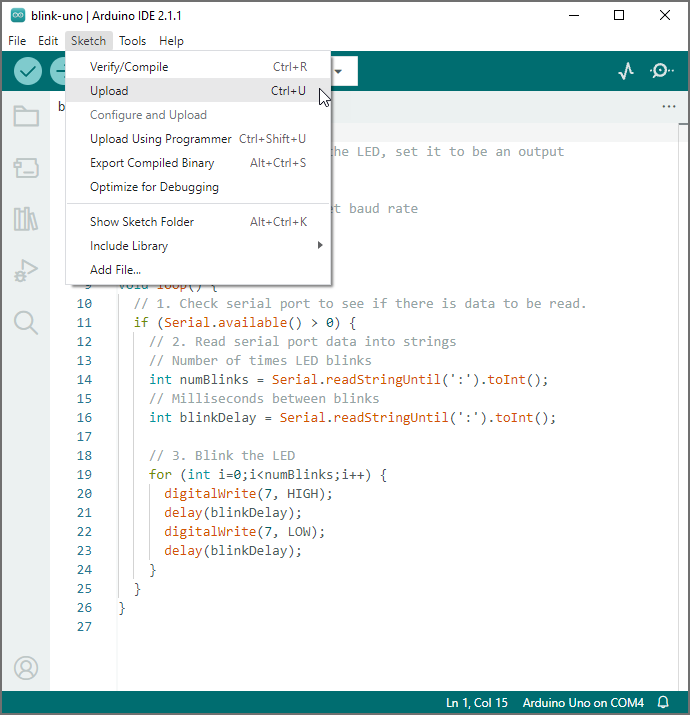
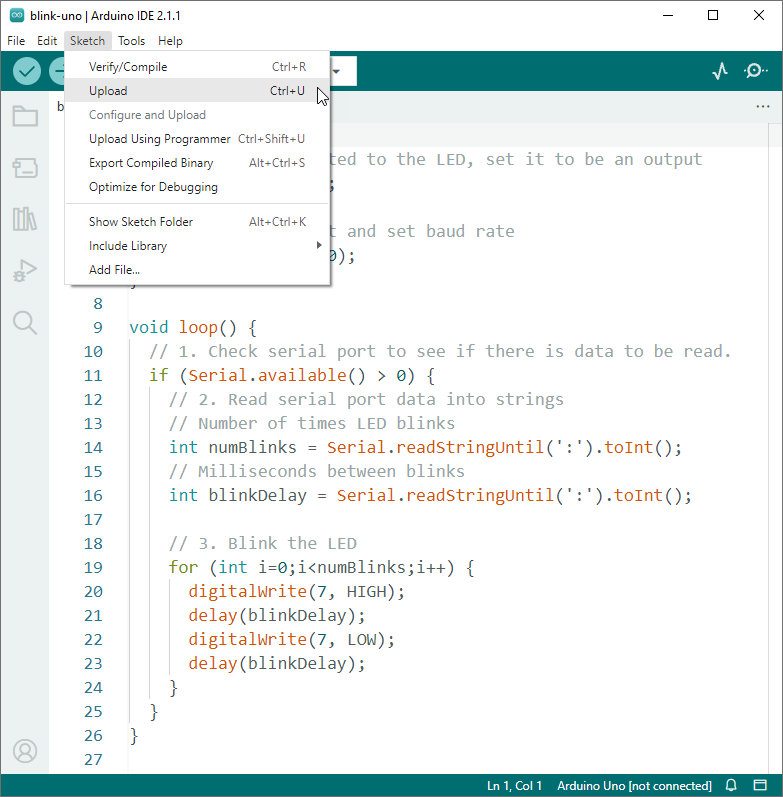
refactor: change running example section image sizes to better accomodate different screen widths

diff --git a/pages/running.html b/pages/running.html
@@ -7,10 +7,21 @@
                 <div class="scrollable-x">
                     <picture>
                       <source
-                        media="(max-width: 540px)"
+                        media="(max-width: 576px)"
                         srcset="images/ArduinoIDEVerifyUpload-mobile-400w.png"
                       />
-                      <source media="(min-width: 541px)" srcset="images/ArduinoIDEVerifyUpload.png" />
+                      <source
+                        media="(max-width: 768px)"
+                        srcset="images/ArduinoIDEVerifyUpload500.png"
+                      />
+                      <source
+                        media="(max-width: 1200px)"
+                        srcset="images/ArduinoIDEVerifyUpload700.png"
+                      />
+                      <source
+                        media="(min-width: 1201px)"
+                        srcset="images/ArduinoIDEVerifyUpload.png"
+                      />
                       <img src="images/ArduinoIDEVerifyUpload.png" alt="Screenshot of Arduino Verify/Upload">
                     </picture>
                   </div>
